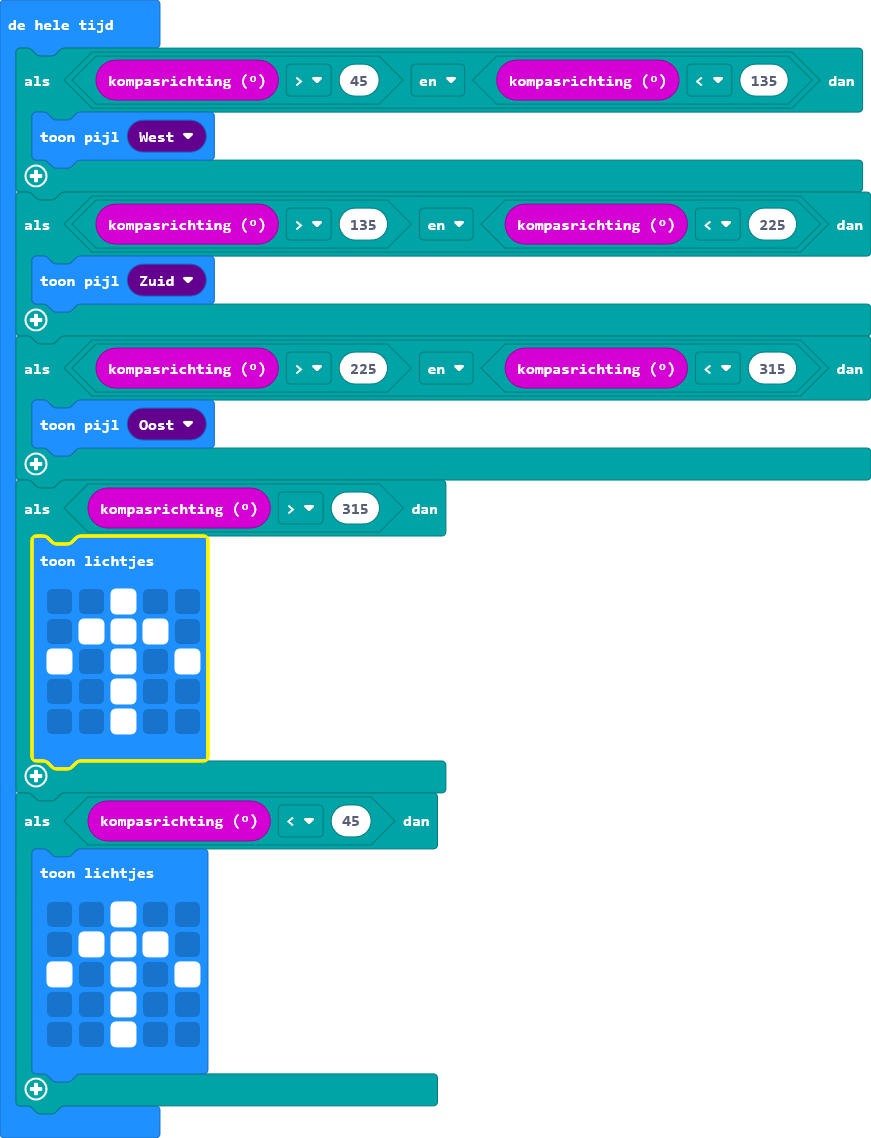
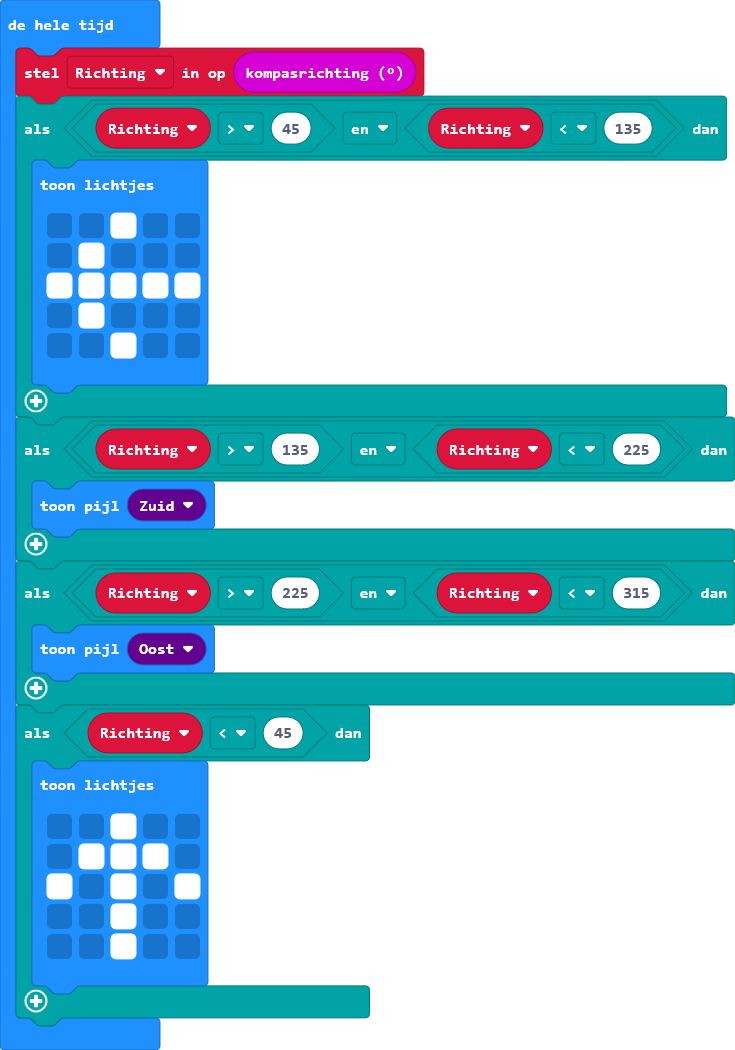
pxt.json, main.blocks, main.ts bijwerken

diff --git a/main.ts b/main.ts
@@ -1,23 +1,22 @@
+let Richting = 0
 basic.forever(function () {
-    if (input.compassHeading() > 45 && input.compassHeading() < 135) {
-        basic.showArrow(ArrowNames.West)
-    }
-    if (input.compassHeading() > 135 && input.compassHeading() < 225) {
-        basic.showArrow(ArrowNames.South)
-    }
-    if (input.compassHeading() > 225 && input.compassHeading() < 315) {
-        basic.showArrow(ArrowNames.East)
-    }
-    if (input.compassHeading() > 315) {
+    Richting = input.compassHeading()
+    if (Richting > 45 && Richting < 135) {
         basic.showLeds(`
             . . # . .
-            . # # # .
-            # . # . #
-            . . # . .
+            . # . . .
+            # # # # #
+            . # . . .
             . . # . .
             `)
     }
-    if (input.compassHeading() < 45) {
+    if (Richting > 135 && Richting < 225) {
+        basic.showArrow(ArrowNames.South)
+    }
+    if (Richting > 225 && Richting < 315) {
+        basic.showArrow(ArrowNames.East)
+    }
+    if (Richting < 45) {
         basic.showLeds(`
             . . # . .
             . # # # .
